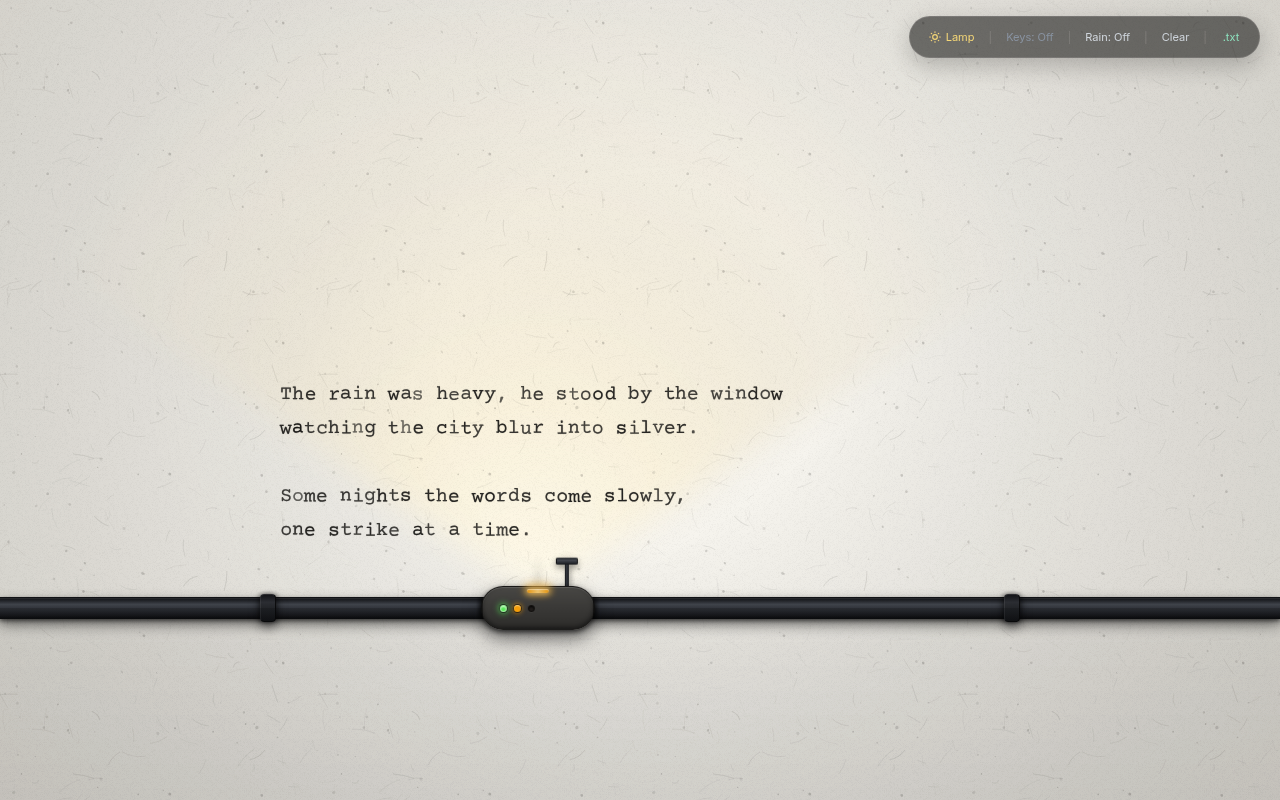
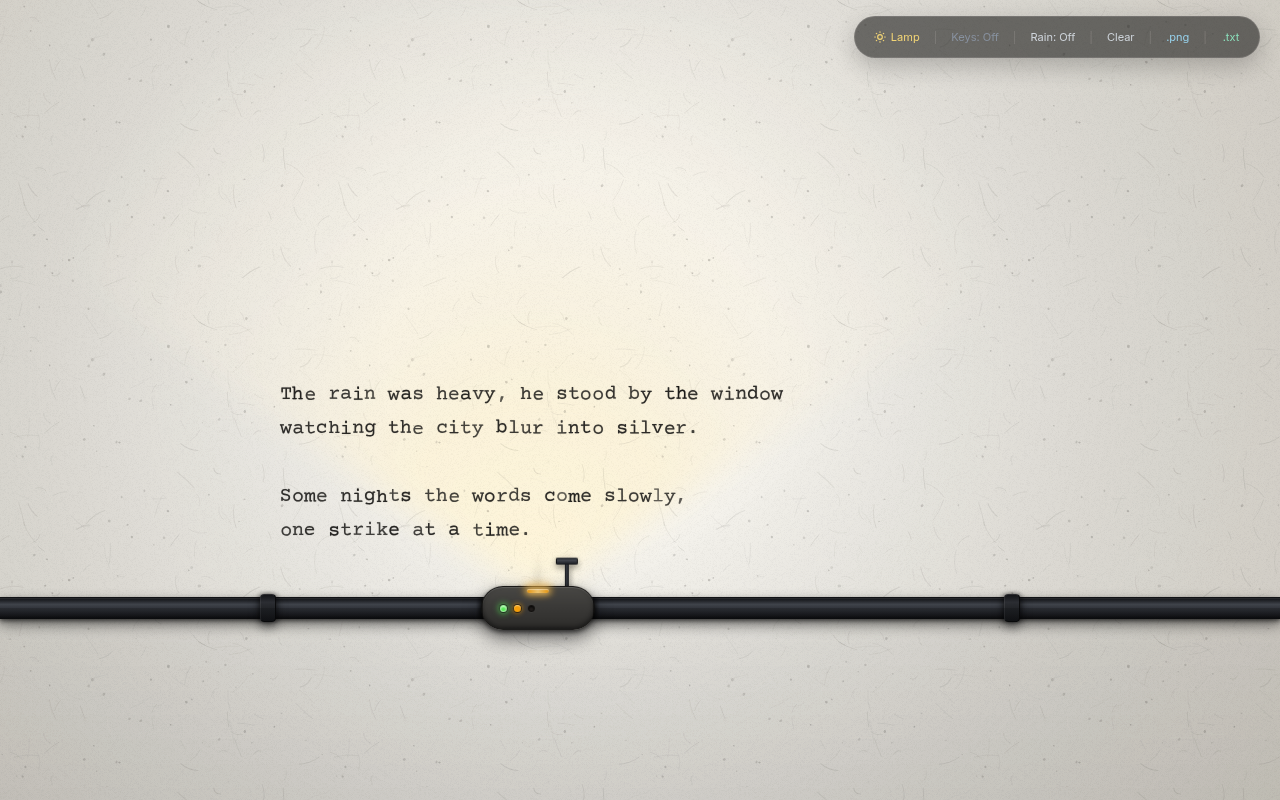
Add PNG export and tune lamp lighting per paper theme

diff --git a/js/renderer.js b/js/renderer.js
@@ -193,11 +193,14 @@ window.Lumen = window.Lumen || {};
     ctx.clearRect(0, 0, vw, vh);
 
     // 1. Subtle peripheral stone-taupe vignette on outer unlit edges
+    // Shade pools around the lamp rather than the screen centre, so lit and
+    // unlit areas stay balanced wherever the carriage is
+    const vigX = state.currentCarriageX * 0.6 + vw * 0.5 * 0.4;
     const edgeGrad = ctx.createRadialGradient(
-      vw * 0.5,
+      vigX,
       vh * 0.45,
       vh * 0.22,
-      vw * 0.5,
+      vigX,
       vh * 0.45,
       Math.max(vw, vh) * 0.8
     );
@@ -287,6 +290,86 @@ window.Lumen = window.Lumen || {};
     }
   }
 
+  // -------------------------------------------------------------------------
+  // PNG Export: draws the full page (not just the visible part) onto a canvas
+  // -------------------------------------------------------------------------
+  function exportPagePNG() {
+    const state = Lumen.state;
+    const theme = Lumen.THEMES[state.themeKey] || Lumen.THEMES.white;
+
+    // Drop trailing blank lines
+    const lines = state.lines.slice();
+    const isBlank = (l) => l.cells.every((c) => !c || !c.char || !c.char.trim());
+    while (lines.length > 1 && isBlank(lines[lines.length - 1])) lines.pop();
+    if (lines.length === 1 && isBlank(lines[0])) return Promise.resolve(null);
+
+    const scale = 2;
+    const fontPx = state.fontPx || 20;
+    const cw = state.charWidth;
+    const lh = state.lineHeight;
+    const padX = Math.round(cw * 6);
+    const padY = Math.round(lh * 2.5);
+    const widest = Math.max(state.maxCols, ...lines.map((l) => l.cells.length));
+    const width = Math.round(widest * cw + padX * 2);
+    const height = Math.round(lines.length * lh + padY * 2);
+
+    const canvas = document.createElement('canvas');
+    canvas.width = width * scale;
+    canvas.height = height * scale;
+    const ctx = canvas.getContext('2d');
+    ctx.scale(scale, scale);
+
+    ctx.fillStyle = theme.paperBase;
+    ctx.fillRect(0, 0, width, height);
+    if (Lumen.paperFiberPattern) {
+      ctx.save();
+      ctx.globalAlpha = theme.light ? 0.55 : 0.88;
+      ctx.fillStyle = Lumen.paperFiberPattern;
+      ctx.fillRect(0, 0, width, height);
+      ctx.restore();
+    }
+
+    const draw = () => {
+      ctx.textBaseline = 'alphabetic';
+      ctx.textAlign = 'left';
+      ctx.font = `${fontPx}px ${state.fontFamily}`;
+      const ink = theme.inkColor;
+
+      const drawGlyph = (ch, x, y, c) => {
+        ctx.save();
+        ctx.translate(x + cw / 2, y);
+        ctx.rotate(((c.rot || 0) * Math.PI) / 180);
+        ctx.globalAlpha = c.opacity == null ? 0.92 : c.opacity;
+        ctx.fillStyle = ink;
+        if (c.bleed) {
+          ctx.shadowColor = ink;
+          ctx.shadowBlur = c.bleed * scale;
+        }
+        ctx.textAlign = 'center';
+        ctx.fillText(ch, c.dx || 0, c.dy || 0);
+        ctx.restore();
+      };
+
+      lines.forEach((line, row) => {
+        const baseY = padY + row * lh + lh * 0.72;
+        line.cells.forEach((cell, col) => {
+          if (!cell || !cell.char || cell.char === ' ') return;
+          const x = padX + col * cw;
+          drawGlyph(cell.char, x, baseY, cell);
+          (cell.overstrikes || []).forEach((o) => drawGlyph(o.char, x, baseY, o));
+        });
+      });
+
+      return new Promise((resolve) => canvas.toBlob(resolve, 'image/png'));
+    };
+
+    const ready = document.fonts && document.fonts.load
+      ? document.fonts.load(`${fontPx}px ${state.fontFamily}`).catch(() => {})
+      : Promise.resolve();
+    return ready.then(draw);
+  }
+
+  Lumen.exportPagePNG = exportPagePNG;
   Lumen.buildFibrousPaperPattern = buildFibrousPaperPattern;
   Lumen.renderPaperDOM = renderPaperDOM;
   Lumen.updateStatsHUD = updateStatsHUD;

diff --git a/js/config.js b/js/config.js
@@ -17,45 +17,46 @@ window.Lumen = window.Lumen || {};
   ];
 
   Lumen.THEMES = {
+    // Light papers: the lamp adds a warm glow that fades INTO the paper colour
+    // (no grey smudge), and a gentle edge shade makes the lit area read.
     white: {
       name: 'Bright White',
       light: true,
       paperBase: '#f6f4ee',
-      vignetteEdge: 'rgba(120, 112, 98, 0.30)',
+      vignetteEdge: 'rgba(125, 112, 90, 0.34)',
       inkColor: '#1b1a18',
-      // Soft warm lamp glow that brightens (not muddies) white paper
-      coneCore: [255, 250, 232],
-      coneMid: [250, 240, 212],
-      coneOuter: [232, 222, 198]
+      coneCore: [255, 245, 214],
+      coneMid: [253, 242, 210],
+      coneOuter: [247, 240, 224]
     },
     cream: {
       name: 'Warm Cream',
       light: true,
       paperBase: '#efe7d3',
-      vignetteEdge: 'rgba(130, 115, 90, 0.32)',
+      vignetteEdge: 'rgba(120, 100, 70, 0.36)',
       inkColor: '#1f1a14',
-      coneCore: [255, 247, 222],
-      coneMid: [247, 232, 196],
-      coneOuter: [226, 210, 176]
+      coneCore: [255, 246, 218],
+      coneMid: [251, 238, 202],
+      coneOuter: [242, 232, 208]
     },
+    // Dark papers: raised base brightness so ink stays legible outside the cone
     standard: {
       name: 'Fibrous Taupe',
-      paperBase: '#5c5852',
-      vignetteEdge: 'rgba(54, 51, 47, 0.58)',
+      paperBase: '#847f75',
+      vignetteEdge: 'rgba(52, 48, 43, 0.50)',
       inkColor: '#161513',
-      // Warm cream-parchment (#f4dfb6) -> warm sand (#ccb790) -> muted taupe (#8a7f6d)
-      coneCore: [244, 223, 182],
-      coneMid: [204, 183, 144],
-      coneOuter: [138, 127, 109]
+      coneCore: [250, 232, 192],
+      coneMid: [226, 205, 160],
+      coneOuter: [170, 158, 135]
     },
     dark: {
       name: 'Dim Study',
-      paperBase: '#2b2926',
-      vignetteEdge: 'rgba(18, 17, 15, 0.72)',
-      inkColor: '#141311',
-      coneCore: [240, 216, 172],
-      coneMid: [188, 166, 128],
-      coneOuter: [108, 98, 84]
+      paperBase: '#4a453d',
+      vignetteEdge: 'rgba(14, 13, 11, 0.58)',
+      inkColor: '#12110f',
+      coneCore: [248, 226, 182],
+      coneMid: [206, 184, 142],
+      coneOuter: [130, 118, 98]
     }
   };
 
@@ -136,6 +137,7 @@ window.Lumen = window.Lumen || {};
       modeOverstrike: document.getElementById('mode-overstrike'),
       actionResetScene: document.getElementById('action-reset-scene'),
       actionNewSheet: document.getElementById('action-new-sheet'),
+      actionExportPng: document.getElementById('action-export-png'),
       actionExportTxt: document.getElementById('action-export-txt'),
       sliderKeyVol: document.getElementById('slider-keyvol'),
       valKeyVol: document.getElementById('val-keyvol'),

diff --git a/index.html b/index.html
@@ -152,6 +152,15 @@
 
       <span class="text-white/15">|</span>
 
+      <!-- Export (.png) -->
+      <button id="action-export-png" type="button"
+        class="flex items-center justify-center min-w-[40px] min-h-[36px] sm:min-h-[32px] px-2.5 rounded-full hover:bg-white/10 active:bg-white/20 transition text-sky-300"
+        title="Export Page as Image (.png)">
+        .png
+      </button>
+
+      <span class="text-white/15">|</span>
+
       <!-- Export (.txt) -->
       <button id="action-export-txt" type="button"
         class="flex items-center justify-center min-w-[40px] min-h-[36px] sm:min-h-[32px] px-2.5 rounded-full hover:bg-white/10 active:bg-white/20 transition text-emerald-300"
@@ -178,7 +187,7 @@
           class="tactile-slider" />
       </div>
 
-      <!-- Paper Surface Mode (Stone Taupe #5c5852 vs Dim Room #2e2c29) -->
+      <!-- Paper Surface Mode (Taupe #847f75 vs Dim Study #4a453d) -->
       <div>
         <label class="block text-[10px] uppercase tracking-wider text-slate-400 mb-1">Paper Surface</label>
         <div class="grid grid-cols-2 gap-1.5">
@@ -192,11 +201,11 @@
           </button>
           <button type="button" data-theme="standard"
             class="theme-btn min-h-[40px] px-2.5 py-1 rounded-lg text-[11px] bg-white/5 hover:bg-white/10 text-slate-300 text-left flex items-center gap-2">
-            <span class="w-4 h-4 shrink-0 rounded-full border border-white/50" style="background:#5c5852"></span><span>Fibrous Taupe</span>
+            <span class="w-4 h-4 shrink-0 rounded-full border border-white/50" style="background:#847f75"></span><span>Fibrous Taupe</span>
           </button>
           <button type="button" data-theme="dark"
             class="theme-btn min-h-[40px] px-2.5 py-1 rounded-lg text-[11px] bg-white/5 hover:bg-white/10 text-slate-300 text-left flex items-center gap-2">
-            <span class="w-4 h-4 shrink-0 rounded-full border border-white/50" style="background:#2b2926"></span><span>Dim Study</span>
+            <span class="w-4 h-4 shrink-0 rounded-full border border-white/50" style="background:#4a453d"></span><span>Dim Study</span>
           </button>
         </div>
       </div>

diff --git a/js/app.js b/js/app.js
@@ -558,6 +558,26 @@ window.Lumen = window.Lumen || {};
       });
     }
 
+    // Export .png Button
+    if (dom.actionExportPng) {
+      dom.actionExportPng.addEventListener('click', () => {
+        closeAllPopovers();
+        if (!Lumen.exportPagePNG) return;
+        Lumen.exportPagePNG().then((blob) => {
+          if (!blob) { showToast('Nothing to export'); return; }
+          const url = URL.createObjectURL(blob);
+          const a = document.createElement('a');
+          a.href = url;
+          a.download = `typewriter-${new Date().toISOString().slice(0, 10)}.png`;
+          document.body.appendChild(a);
+          a.click();
+          document.body.removeChild(a);
+          setTimeout(() => URL.revokeObjectURL(url), 1000);
+          showToast('Exported .png');
+        }).catch(() => showToast('PNG export failed'));
+      });
+    }
+
     // Export .txt Button
     if (dom.actionExportTxt) {
       dom.actionExportTxt.addEventListener('click', () => {

diff --git a/README.md b/README.md
@@ -21,7 +21,7 @@ A tactile web typewriter. It has a sliding carriage, a warm lamp that lights the
 - **Personalise:** three typefaces, three text sizes, three line spacings, and key and rain volume.
 - **Works on phones:** touch-drag to scroll the page, an on-screen keyboard button and safe-area aware controls.
 - **Your page is kept:** text and settings are saved in your browser automatically.
-- **Take it with you:** export as `.txt`, copy to the clipboard, or paste text and watch it type itself out.
+- **Take it with you:** export the whole page as a `.png` image or as `.txt`, copy to the clipboard, or paste text and watch it type itself out.
 
 ## Screenshots
 
